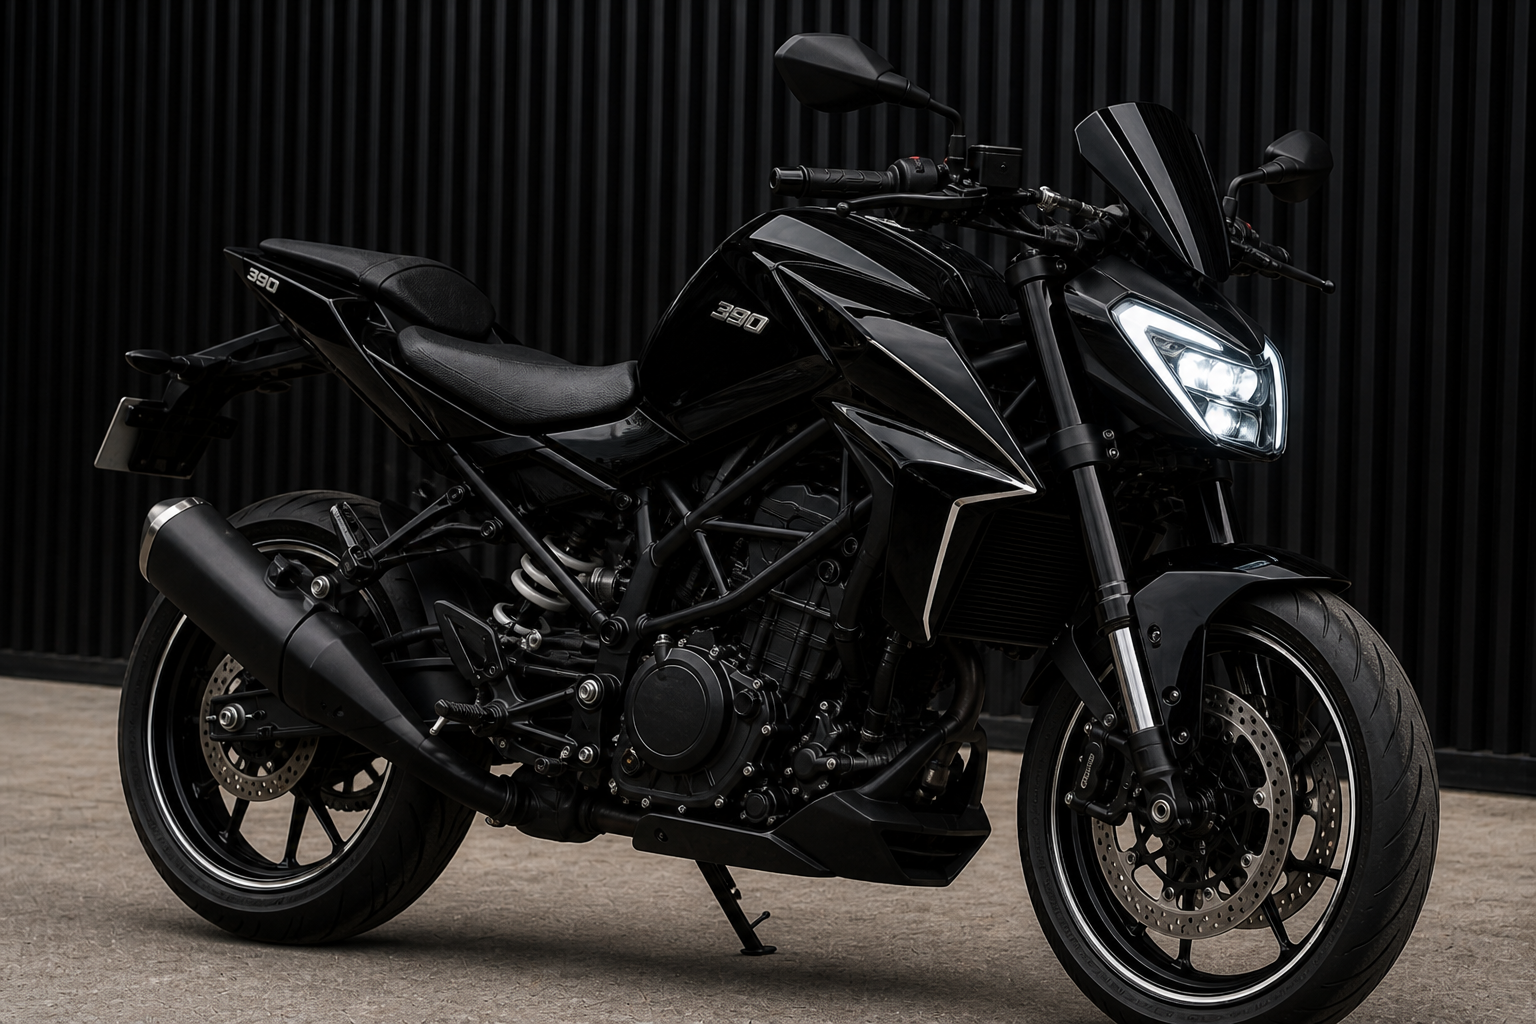
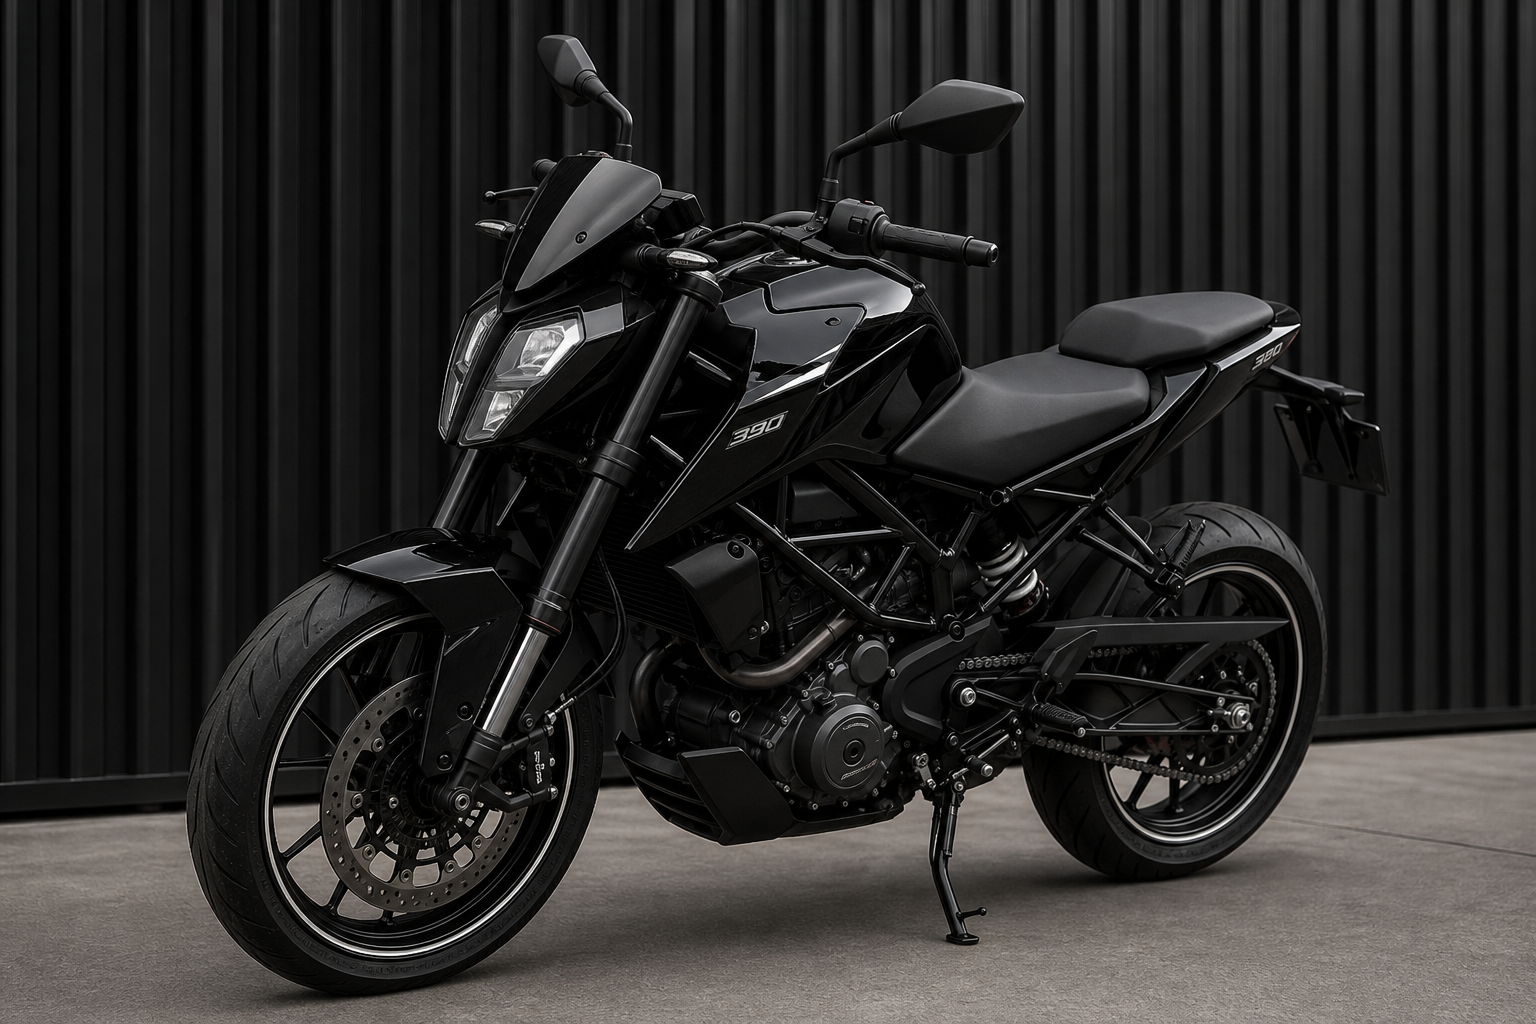
Redraw KTM wraps on the Brazilian 2nd-gen 390 Duke
Use the older split-LED Duke sold in Brazil instead of the
2024+ third generation.

diff --git a/src/app/garage/garage-gallery.tsx b/src/app/garage/garage-gallery.tsx
@@ -93,7 +93,7 @@ const BIKES: BikeWrap[] = [
 		name: "390 Duke",
 		maker: "KTM Brasil",
 		summary:
-			"The same wrap language on a Brazilian-market 390 Duke. Naked bodywork stays black. The metal only shows on the shroud edges, rims, and a small 390 badge.",
+			"The same wrap language on the 2nd-gen 390 Duke sold in Brazil — split LED headlights, compact tank, trellis frame. Naked bodywork stays black. The metal only shows on the shroud edges, rims, and a small 390 badge.",
 		badgeLabel: "390 Duke metallic badge",
 		placements: [
 			{
@@ -116,7 +116,7 @@ const BIKES: BikeWrap[] = [
 				accent: "Platinum chrome",
 				finish: "Gloss piano black",
 				description:
-					"A murdered-out Duke with jewelry-thin platinum chrome. No factory orange — just rim tape, shroud piping, and a small 390 badge on the tank and tail.",
+					"A murdered-out 2nd-gen Duke with jewelry-thin platinum chrome. No factory orange — just rim tape, shroud piping, and a small 390 badge on the tank and tail.",
 				bike: "/garage/ktm-390-duke-ghost-white.png",
 				logo: "/garage/ktm-390-logo-ghost-white.png",
 				swatch: "#d7d7d7",

diff --git a/src/app/garage/page.tsx b/src/app/garage/page.tsx
@@ -4,11 +4,11 @@ import { GarageGallery } from "./garage-gallery";
 export const metadata: Metadata = {
 	title: "Garage",
 	description:
-		"Vinyl wrap concepts for a Kawasaki Ninja 500 SE and a KTM 390 Duke — stealth black with small metallic accents.",
+		"Vinyl wrap concepts for a Kawasaki Ninja 500 SE and a Brazilian 2nd-gen KTM 390 Duke — stealth black with small metallic accents.",
 	openGraph: {
 		title: "Garage | D-kja",
 		description:
-			"Stealth-black vinyl wrap variants for the Ninja 500 SE and the KTM 390 Duke, each with a small metallic badge.",
+			"Stealth-black vinyl wrap variants for the Ninja 500 SE and the Brazilian 2nd-gen KTM 390 Duke, each with a small metallic badge.",
 	},
 };
 
